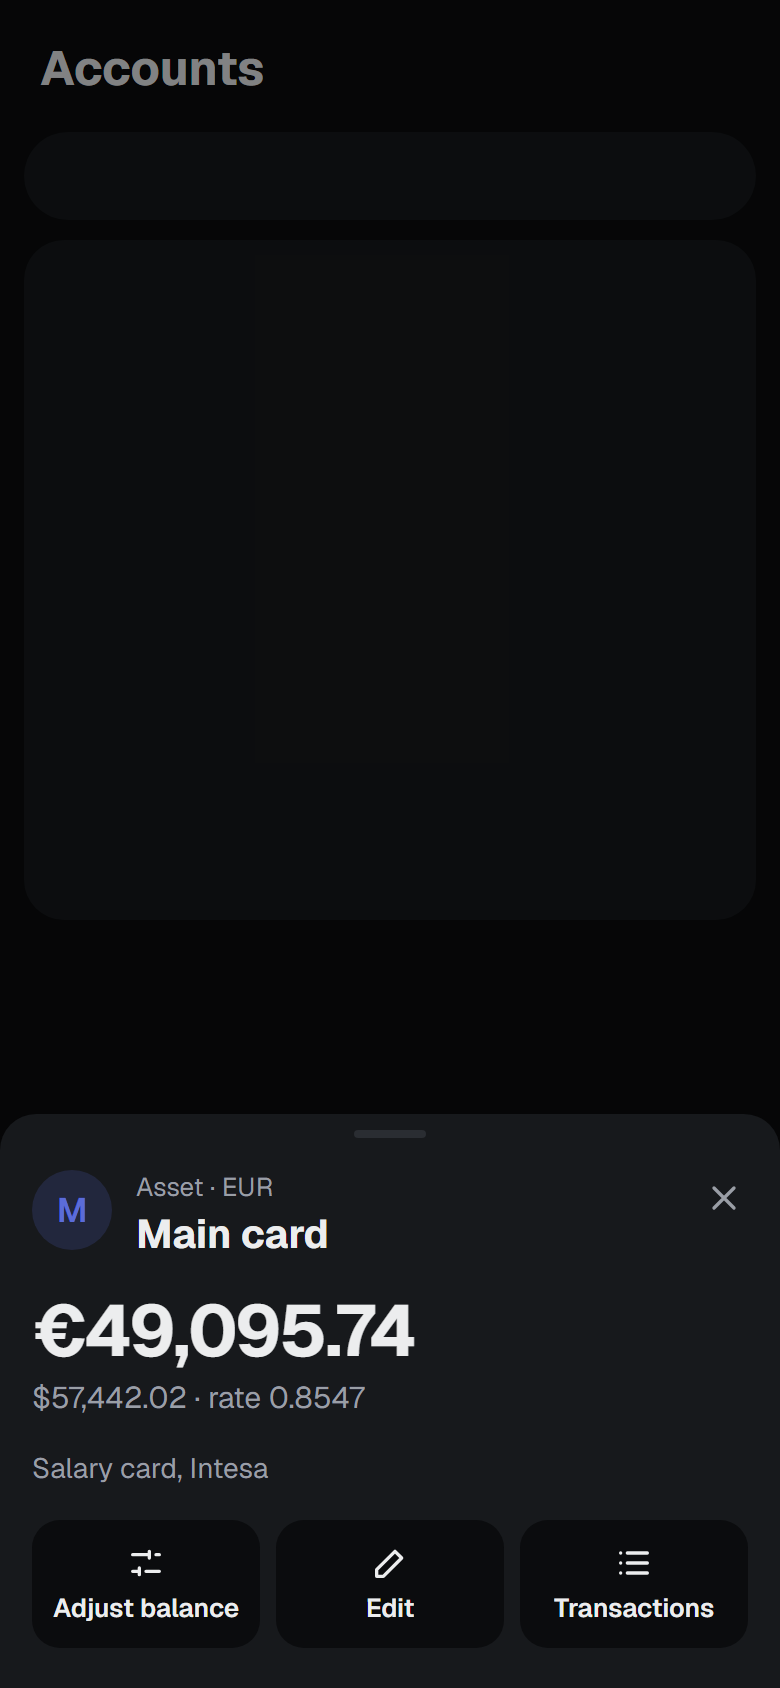
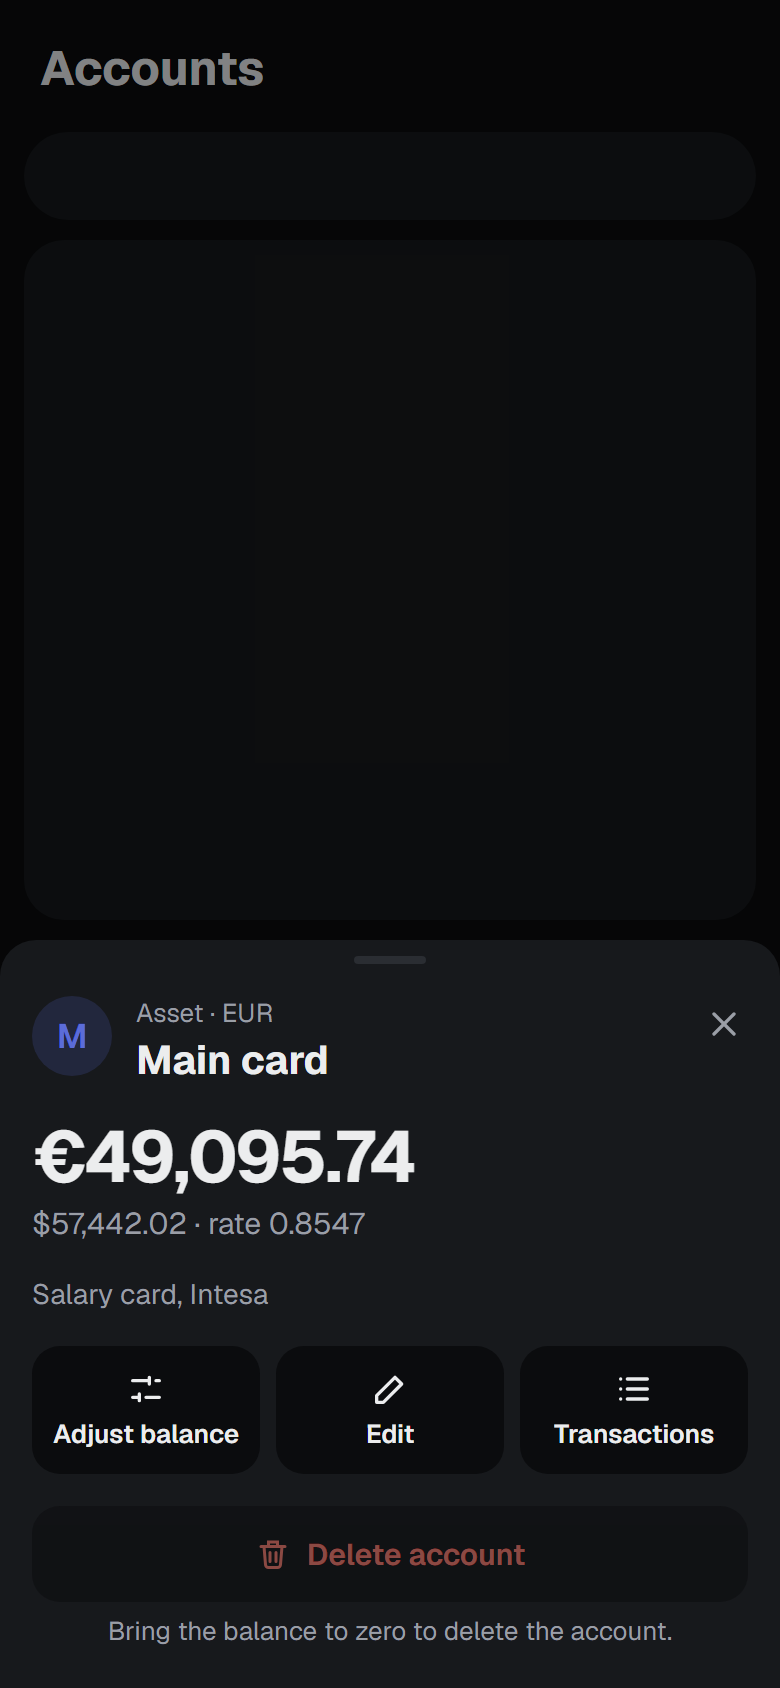
#220: Add the account deletion mockups
Claude-Session: https://claude.ai/code/session_01JqeZG6LFwgjRtasLBY5gmC

diff --git a/220/design/delete-desktop.dc.html b/220/design/delete-desktop.dc.html
@@ -1,0 +1,48 @@
+<!doctype html>
+<html lang="en">
+<head>
+<meta charset="utf-8">
+<title>Delete account, desktop</title>
+<script src="./support.js"></script>
+</head>
+<body>
+<x-dc>
+<helmet>
+<link rel="stylesheet" href="https://fonts.googleapis.com/css2?family=Geist:wght@400;500;600;700&amp;display=swap">
+<style>
+body{margin:0}
+button{font:inherit;cursor:pointer}
+</style>
+</helmet>
+<div style="width: 1280px; height: 800px; box-sizing: border-box; padding: 16px; position: relative; overflow: hidden; display: flex; gap: 20px; font-family: Geist, system-ui, sans-serif; background: {{t.bg}}; color: {{t.text}}">
+  <div style="width: 230px; height: 340px; flex-shrink: 0; border-radius: 20px; background: {{t.panel}}"></div>
+  <div style="flex-grow: 1; display: flex; flex-direction: column; gap: 14px">
+    <span style="height: 52px; display: flex; align-items: center; font-size: 28px; font-weight: 700; letter-spacing: -0.02em">Accounts</span>
+    <div style="width: 460px; height: 40px; border-radius: 20px; background: {{t.panel}}"></div>
+    <div style="flex-grow: 1; display: flex; gap: 16px">
+      <div style="flex-grow: 1; border-radius: 20px; background: {{t.panel}}"></div>
+      <div style="width: 340px; height: 400px; border-radius: 20px; background: {{t.panel}}"></div>
+    </div>
+  </div>
+  <div aria-hidden="true" style="position: absolute; inset: 0; background: rgba(0,0,0,.35)"></div>
+  <div role="alertdialog" aria-modal="true" aria-labelledby="delete-title" style="position: absolute; left: 50%; top: 50%; transform: translate(-50%, -50%); width: 400px; box-sizing: border-box; padding: 20px; border-radius: 20px; display: flex; flex-direction: column; gap: 12px; background: {{t.panel}}; box-shadow: 0 18px 50px rgba(0,0,0,.3)">
+    <h2 id="delete-title" style="margin: 0; font-size: 18px; font-weight: 700">Delete this account?</h2>
+    <p style="margin: 0; font-size: 15px; line-height: 1.45; color: {{t.muted}}">Old cash, ₾0.00. It leaves your accounts and the pickers, and its past transactions keep showing it.</p>
+    <div style="padding-top: 8px; display: grid; grid-template-columns: repeat(2, minmax(0, 1fr)); gap: 8px">
+      <button type="button" style="height: 46px; border: 0; border-radius: 14px; font-size: 15px; font-weight: 600; background: {{t.bg}}; color: {{t.text}}">Cancel</button>
+      <button type="button" style="height: 46px; border: 0; border-radius: 14px; font-size: 15px; font-weight: 600; background: {{t.danger}}; color: {{t.onDanger}}">Delete</button>
+    </div>
+  </div>
+</div>
+</x-dc>
+<script type="text/x-dc" data-dc-script data-props='{"dark":{"editor":"boolean","default":true},"$preview":{"width":1280,"height":800}}'>
+class Component extends DCLogic {
+renderVals() {
+const L = { bg: '#EEEEEB', panel: '#FFFFFF', text: '#17181A', muted: '#5A5D64', danger: '#B42318', onDanger: '#FFFFFF' };
+const D = { bg: '#0B0C0E', panel: '#17191C', text: '#ECEDEE', muted: '#9A9EA6', danger: '#FF7A6B', onDanger: '#0B0C0E' };
+return { t: (this.props.dark ?? true) ? D : L };
+}
+}
+</script>
+</body>
+</html>

diff --git a/220/design/delete-phone.dc.html b/220/design/delete-phone.dc.html
@@ -1,0 +1,45 @@
+<!doctype html>
+<html lang="en">
+<head>
+<meta charset="utf-8">
+<title>Delete account, phone</title>
+<script src="./support.js"></script>
+</head>
+<body>
+<x-dc>
+<helmet>
+<link rel="stylesheet" href="https://fonts.googleapis.com/css2?family=Geist:wght@400;500;600;700&amp;display=swap">
+<style>
+body{margin:0}
+button{font:inherit;cursor:pointer}
+</style>
+</helmet>
+<div style="position: relative; width: 390px; height: 844px; box-sizing: border-box; padding: 16px; display: flex; flex-direction: column; gap: 12px; overflow: hidden; font-family: Geist, system-ui, sans-serif; background: {{t.bg}}; color: {{t.text}}">
+  <div style="padding: 0 8px; display: flex; align-items: center; justify-content: space-between">
+    <span style="font-size: 24px; font-weight: 600; letter-spacing: -0.02em">Accounts</span>
+    <span style="width: 44px; height: 44px; border-radius: 22px; background: {{t.panel}}"></span>
+  </div>
+  <div style="height: 44px; border-radius: 22px; background: {{t.panel}}"></div>
+  <div style="flex-grow: 1; border-radius: 20px; background: {{t.panel}}"></div>
+  <div aria-hidden="true" style="position: absolute; inset: 0; background: rgba(0,0,0,.35)"></div>
+  <div role="alertdialog" aria-modal="true" aria-labelledby="delete-title" style="position: absolute; left: 24px; right: 24px; top: 50%; transform: translateY(-50%); padding: 20px; border-radius: 20px; display: flex; flex-direction: column; gap: 12px; background: {{t.panel}}; box-shadow: 0 18px 50px rgba(0,0,0,.3)">
+    <h2 id="delete-title" style="margin: 0; font-size: 18px; font-weight: 700">Delete this account?</h2>
+    <p style="margin: 0; font-size: 15px; line-height: 1.45; color: {{t.muted}}">Old cash, ₾0.00. It leaves your accounts and the pickers, and its past transactions keep showing it.</p>
+    <div style="padding-top: 8px; display: grid; grid-template-columns: repeat(2, minmax(0, 1fr)); gap: 8px">
+      <button type="button" style="height: 46px; border: 0; border-radius: 14px; font-size: 15px; font-weight: 600; background: {{t.bg}}; color: {{t.text}}">Cancel</button>
+      <button type="button" style="height: 46px; border: 0; border-radius: 14px; font-size: 15px; font-weight: 600; background: {{t.danger}}; color: {{t.onDanger}}">Delete</button>
+    </div>
+  </div>
+</div>
+</x-dc>
+<script type="text/x-dc" data-dc-script data-props='{"dark":{"editor":"boolean","default":true},"$preview":{"width":390,"height":844}}'>
+class Component extends DCLogic {
+renderVals() {
+const L = { bg: '#EEEEEB', panel: '#FFFFFF', text: '#17181A', muted: '#5A5D64', danger: '#B42318', onDanger: '#FFFFFF' };
+const D = { bg: '#0B0C0E', panel: '#17191C', text: '#ECEDEE', muted: '#9A9EA6', danger: '#FF7A6B', onDanger: '#0B0C0E' };
+return { t: (this.props.dark ?? true) ? D : L };
+}
+}
+</script>
+</body>
+</html>

diff --git a/220/design/list-a-desktop.dc.html b/220/design/list-a-desktop.dc.html
@@ -93,6 +93,12 @@ input::placeholder{color:inherit;opacity:.7}
             <svg aria-hidden="true" width="20" height="20" viewBox="0 0 24 24" fill="none" stroke="currentColor" stroke-width="2" stroke-linecap="round"><path d="M8 6h12M8 12h12M8 18h12M4 6h.01M4 12h.01M4 18h.01"></path></svg>Transactions
           </a>
         </div>
+        <div style="display: flex; flex-direction: column; gap: 6px">
+          <button type="button" disabled style="height: 48px; border: 0; border-radius: 14px; display: flex; align-items: center; justify-content: center; gap: 8px; font-size: 15px; font-weight: 600; background: {{t.bg}}; color: {{t.danger}}; opacity: .5; cursor: default">
+            <svg aria-hidden="true" width="18" height="18" viewBox="0 0 24 24" fill="none" stroke="currentColor" stroke-width="2" stroke-linecap="round"><path d="M4 7h16M10 11v6M14 11v6M6 7l1 12a2 2 0 0 0 2 2h6a2 2 0 0 0 2-2l1-12M9 7V4h6v3"></path></svg>Delete account
+          </button>
+          <span style="font-size: 13px; text-align: center; color: {{t.muted}}">Bring the balance to zero to delete the account.</span>
+        </div>
       </aside>
     </div>
   </main>

diff --git a/220/design/details-phone.dc.html b/220/design/details-phone.dc.html
@@ -51,6 +51,12 @@ button{cursor:pointer}
         <svg aria-hidden="true" width="20" height="20" viewBox="0 0 24 24" fill="none" stroke="currentColor" stroke-width="2" stroke-linecap="round"><path d="M8 6h12M8 12h12M8 18h12M4 6h.01M4 12h.01M4 18h.01"></path></svg>Transactions
       </a>
     </div>
+    <div style="display: flex; flex-direction: column; gap: 6px">
+      <button type="button" disabled style="height: 48px; border: 0; border-radius: 14px; display: flex; align-items: center; justify-content: center; gap: 8px; font-size: 15px; font-weight: 600; background: {{t.bg}}; color: {{t.danger}}; opacity: .5; cursor: default">
+        <svg aria-hidden="true" width="18" height="18" viewBox="0 0 24 24" fill="none" stroke="currentColor" stroke-width="2" stroke-linecap="round"><path d="M4 7h16M10 11v6M14 11v6M6 7l1 12a2 2 0 0 0 2 2h6a2 2 0 0 0 2-2l1-12M9 7V4h6v3"></path></svg>Delete account
+      </button>
+      <span style="font-size: 13px; text-align: center; color: {{t.muted}}">Bring the balance to zero to delete the account.</span>
+    </div>
   </section>
 </div>
 </x-dc>
